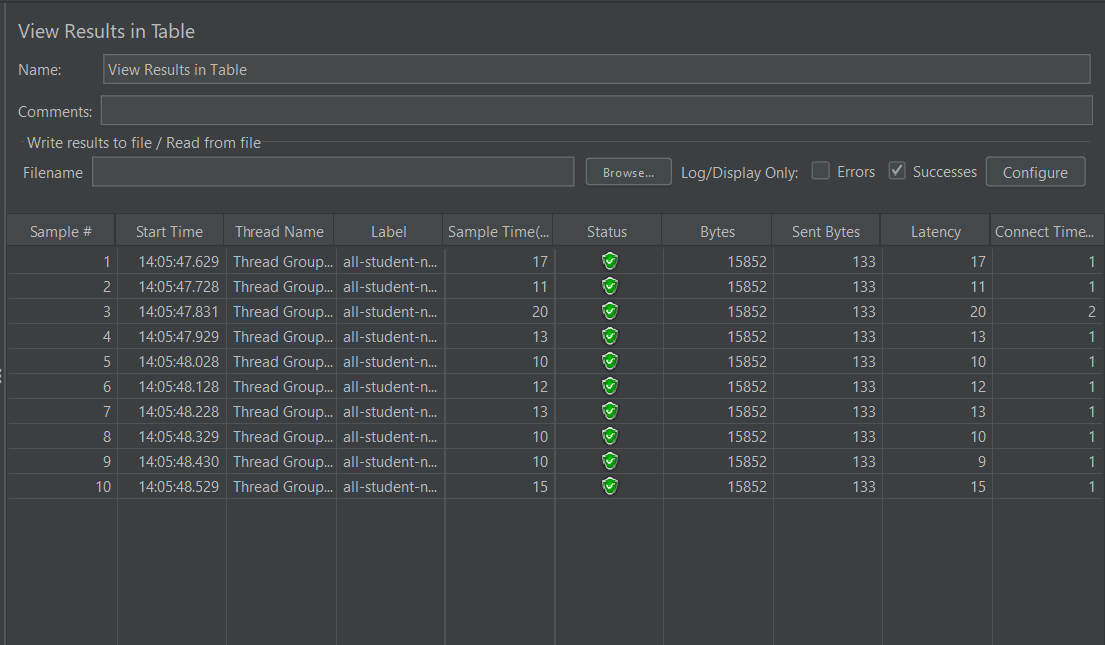
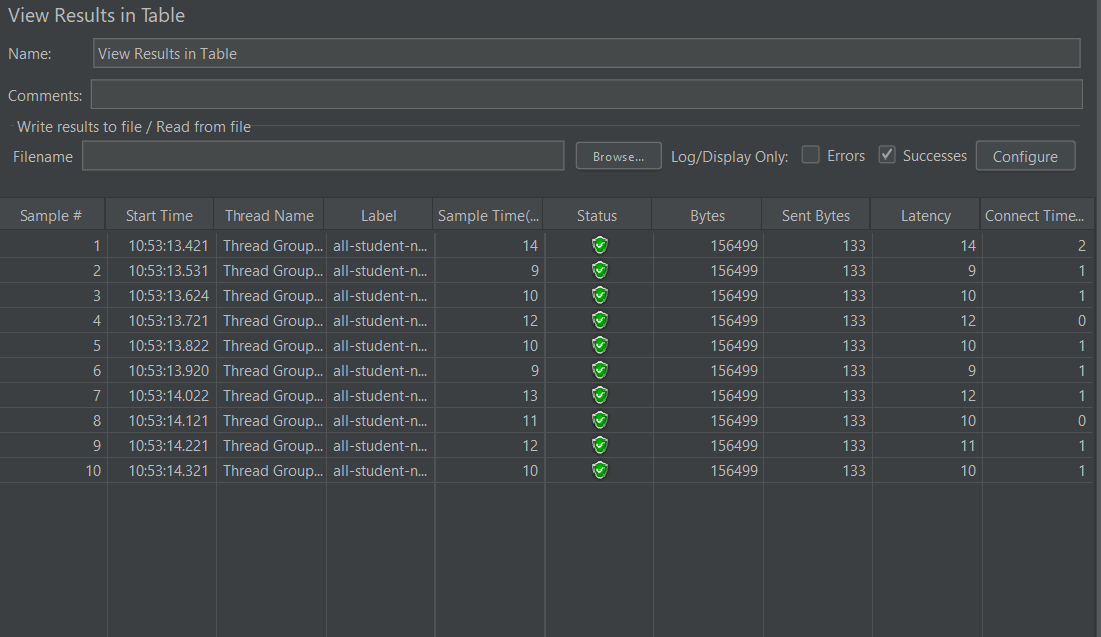
[Chores] - Update all-student-name JMeter results and screenshots with 5000 student data

diff --git a/src/main/java/com/advpro/profiling/tutorial/service/DataSeedService.java b/src/main/java/com/advpro/profiling/tutorial/service/DataSeedService.java
@@ -28,7 +28,7 @@ public class DataSeedService {
     @Autowired
     private StudentCourseRepository studentCourseRepository;
 
-    private static final int NUMBER_OF_STUDENTS = 1_000;
+    private static final int NUMBER_OF_STUDENTS = 5_000;
     private static final int NUMBER_OF_COURSE = 10;
 
     public void seedStudent() {

diff --git a/README.md b/README.md
@@ -53,7 +53,14 @@
 
 ![all-student-name CLI after](screenshots/all-student-name-after-cli.png)
 
+**Perbandingan:**
+| Metric | Sebelum | Sesudah | Improvement |
+|--------|---------|---------|-------------|
+| Avg Sample Time (ms) | 2847 | 68 | ~98% ✅ |
+| Min Sample Time (ms) | 1209 | 15 | ~99% ✅ |
+| Max Sample Time (ms) | 3673 | 244 | ~93% ✅ |
 
+---
 
 ### Endpoint `/highest-gpa`
 
@@ -65,7 +72,7 @@
 
 #### Hasil GUI (setelah optimasi):
 
-![highest-gpa GUI before](screenshots/highest-gpa-after-gui.png)
+![highest-gpa GUI after](screenshots/highest-gpa-after-gui.png)
 
 #### Hasil Command Line (sebelum optimasi):
 
@@ -96,10 +103,10 @@ Solusi: mengganti looping query dengan satu JOIN FETCH query menggunakan `@Query
 
 ### Endpoint `/all-student-name`
 
-Method `joinStudentNames` mengambil seluruh objek Student ke memory lalu melakukan string concatenation menggunakan `+=` di dalam loop. Ini sangat boros memori karena setiap iterasi membuat objek String baru.
+Method `joinStudentNames` sebelumnya mengambil seluruh objek `Student` ke dalam memori, lalu melakukan penggabungan string menggunakan operator `+=` di dalam loop. Pendekatan ini tidak efisien karena setiap iterasi akan membuat objek `String` baru, sehingga boros memori.
 
-Solusi: mengambil hanya kolom nama langsung dari database menggunakan `@Query("SELECT s.name FROM Student s")` dan menggabungkannya dengan `String.join()`.
-Endpoint ini sudah sangat cepat sejak awal karena hanya mengambil satu kolom (nama), sehingga improvement tidak terlalu signifikan pada pengukuran JMeter. Namun secara kode, penggunaan memori jauh lebih efisien karena tidak lagi membuat objek String baru di setiap iterasi."
+Solusi: mengambil hanya kolom nama langsung dari database menggunakan `@Query("SELECT s.name FROM Student s")` dan menggabungkannya dengan `String.join()`. Hasilnya, rata-rata response time turun dari **2847ms menjadi 68ms (~98% improvement)**.
+
 ---
 
 ### Endpoint `/highest-gpa`
@@ -116,7 +123,7 @@ Solusi: menggunakan derived query `findFirstByOrderByGpaDesc()` yang langsung me
 
 JMeter melakukan performance testing dari sisi **luar** aplikasi — mensimulasikan banyak user yang menghit endpoint secara bersamaan dan mengukur response time serta throughput. Hasilnya berupa metrik seperti sample time dan error rate, namun tidak menjelaskan *mengapa* aplikasi lambat.
 
-IntelliJ Profiler bekerja dari sisi **dalam** aplikasi — merekam eksekusi nyata di level method/fungsi, menampilkan CPU time, heap memory, dan flame graph. Profiler membantu mengidentifikasi *di mana tepatnya* bottleneck terjadi dalam source code, sehingga optimasi bisa dilakukan secara tepat sasaran.
+IntelliJ Profiler bekerja dari sisi **dalam** aplikasi yang merekam eksekusi nyata di level method/fungsi, menampilkan CPU time, heap memory, dan flame graph. Profiler membantu mengidentifikasi *di mana tepatnya* bottleneck terjadi dalam source code, sehingga optimasi bisa dilakukan secara tepat sasaran.
 
 Keduanya bersifat komplementer: JMeter mengukur *seberapa* lambat, IntelliJ Profiler mengungkap *mengapa* lambat.
 
@@ -124,7 +131,7 @@ Keduanya bersifat komplementer: JMeter mengukur *seberapa* lambat, IntelliJ Prof
 
 **2. Bagaimana proses profiling membantu mengidentifikasi dan memahami titik lemah dalam aplikasi?**
 
-Profiling memberikan visibilitas langsung ke dalam eksekusi kode. Melalui flame graph, terlihat bahwa method `getAllStudentsWithCourses` mengonsumsi sebagian besar CPU time. Setelah ditelusuri di Method List dan source code, ditemukan pola N+1 Query — setiap iterasi student memicu satu query tambahan ke database. Tanpa profiling, masalah ini sulit terdeteksi hanya dari melihat kode secara manual.
+Profiling memberikan visibilitas langsung ke dalam eksekusi kode. Melalui flame graph, terlihat bahwa method `getAllStudentsWithCourses` mengonsumsi sebagian besar CPU time. Setelah ditelusuri di Method List dan source code, ditemukan pola N+1 Query yang setiap iterasi student memicu satu query tambahan ke database. Tanpa profiling, masalah ini sulit terdeteksi hanya dari melihat kode secara manual.
 
 ---
 
